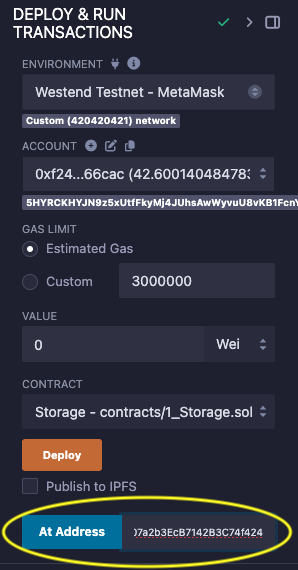
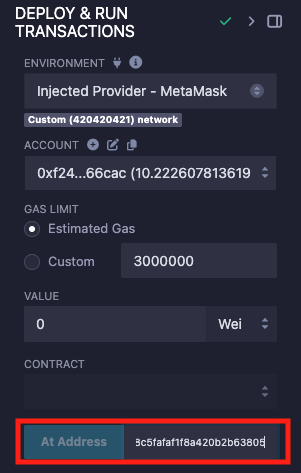
Update the documentation to reflect the latest changes in Remix (#58)

diff --git a/docs/tutorial/2-deploy-your-first-contract.md b/docs/tutorial/2-deploy-your-first-contract.md
@@ -13,18 +13,19 @@ This guide will walk you through deploying and interacting with contracts in REM
    By default, REMIX provides a sample workspace. Choose a Solidity contract to compile and click the **▶** button.
    Alternatively, use the **Solidity Compiler** tab to compile the selected contract.
 
-   ![Compile contract](img/dapp_compile.jpeg)
+   ![Compile contract](img/dapp_compile.png)
 
 2. Deploy to Westend.
 
-   Select **Westend Testnet - MetaMask** environment in the **Deploy & Run** tab.
+   Select **Injected Provider - MetaMask** environment in the **Deploy & Run** tab.
    When prompted, allow REMIX to connect to MetaMask. Your account address and balance will be displayed under the **ACCOUNT** section.
+   Ensure you are connected to the **Asset-Hub Westend** network in MetaMask. If you are not already connected, switch to the correct network. Remix will automatically use the network selected in MetaMask.
 
-   ![Deploy contract](img/dapp_deploy.jpeg)
+   ![Deploy contract](img/dapp_deploy.png)
 
    Click **Deploy** and **Confirm** the transaction in MetaMask.
 
-   ![Confirm transaction](img/dapp_metamask_deploy.jpeg)
+   ![Confirm transaction](img/dapp_metamask_deploy.png)
 
    Wait for the deployment to complete, as indicated in the terminal panel.
 
@@ -41,14 +42,14 @@ This guide will walk you through deploying and interacting with contracts in REM
 
    You can interact with your contract by calling its methods from this section, with all transactions routed through MetaMask.
 
-   ![Call contract](img/dapp_call.jpeg)
+   ![Call contract](img/dapp_call.png)
 
 2. Run Tests.
 
    Currently, REMIX supports JavaScript tests only.
    To run tests, navigate to the **File Explorer** and select any JavaScript test file in the **tests** directory.
 
-   ![Test contract](img/dapp_test.jpeg)
+   ![Test contract](img/dapp_test.png)
 
    Run it by clicking the **▶** button.
 

diff --git a/docs/tutorial/work-with-a-local-node.md b/docs/tutorial/work-with-a-local-node.md
@@ -77,10 +77,9 @@ RUST_LOG="info,eth-rpc=debug" cargo run --release -p pallet-revive-eth-rpc -- --
 ## REMIX Setup
 
 1. Open the REMIX IDE.
-2. Navigate to the **Deploy & Run** tab. In the **Environment** dropdown, select **Customize this list...**.
-3. Enable **INJECTED PROVIDER - METAMASK** in the **Deploy using a Browser Extension** section.
-4. From the **Environment** dropdown, select the enabled **Injected Provider - MetaMask**.
-5. Select the pre-founded local account
+2. From the **Environment** dropdown, select the enabled **Injected Provider - MetaMask**.
+3. Ensure you are connected to the **Kitchensink local** network in MetaMask.
+4. Select the pre-founded local account.
 
 To compile and deploy your smart contract, refer to the [Deploying Your First Contract](./2-deploy-your-first-contract.md) tutorial, keeping the environment settings configured in this section.
 
